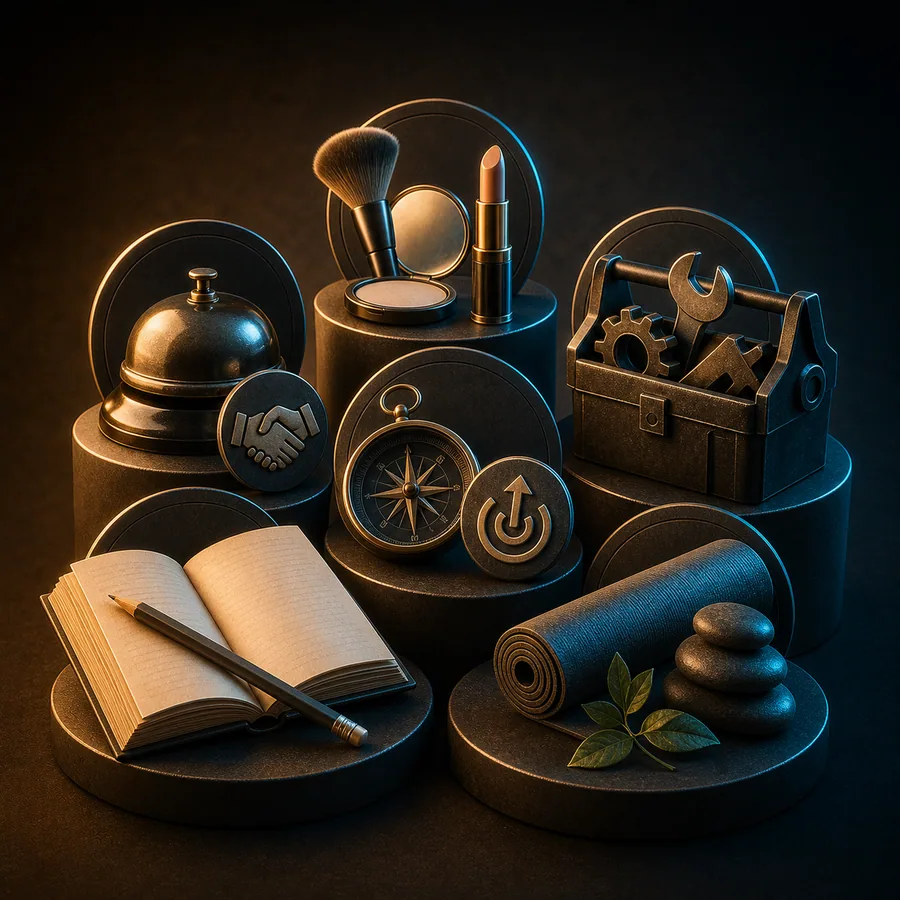
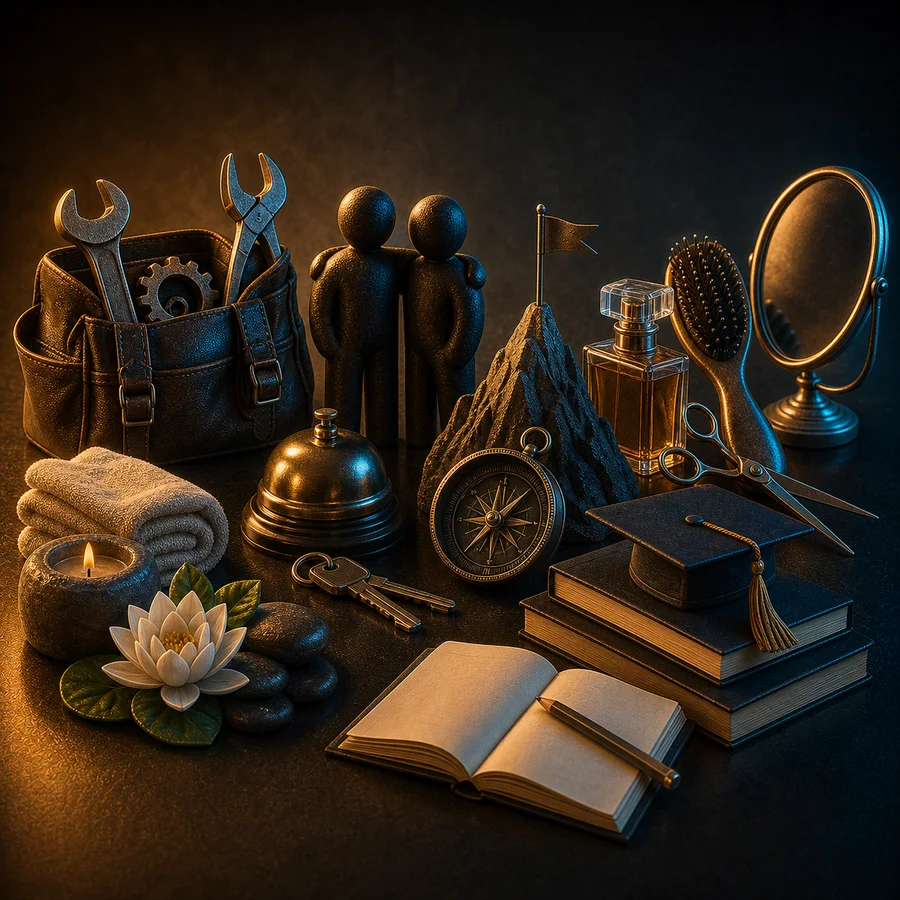
Replace services artwork and remove chevrons

diff --git a/src/LaunchPage.tsx b/src/LaunchPage.tsx
@@ -1,5 +1,5 @@
 const activityCardImage = "/launch/activity-card-user.webp";
-const servicesCardImage = "/launch/services-card-user.webp";
+const servicesCardImage = "/launch/services-card-user.webp?v=20260801-2";
 import { AppHeader } from "./components/AppHeader";
 import { getTranslation } from "./i18n";
 import type { Language } from "./types";
@@ -115,13 +115,11 @@ export function LaunchPage({
             <img src={activityCardImage} alt="" aria-hidden="true" />
             <span className="launch-card-shade" aria-hidden="true" />
             <span className="launch-domain-copy"><strong>{t.activities}</strong><small>{t.activitiesInfo}</small></span>
-            <span className="launch-card-arrow" aria-hidden="true">›</span>
           </button>
           <button className="launch-domain-card launch-services-card" type="button" onClick={onOpenServices}>
             <img src={servicesCardImage} alt="" aria-hidden="true" />
             <span className="launch-card-shade" aria-hidden="true" />
             <span className="launch-domain-copy"><strong>{t.services}</strong><small>{t.servicesInfo}</small></span>
-            <span className="launch-card-arrow" aria-hidden="true">›</span>
           </button>
         </div>
       </section>

diff --git a/src/App.tsx b/src/App.tsx
@@ -606,7 +606,6 @@ function HomeView({ language, onOpen, onJoin, onOpenOrganizerCabinet }: { langua
             <span>{category.icon}</span>
             <strong>{category.name[language]}</strong>
             <small>{servicesDomain ? professionalCount + " " + professionalCountLabel(language, professionalCount) : activities.filter((activity) => activity.categoryId === category.id).length + " " + t.eventCountLabel}</small>
-            <ChevronRight size={16} />
           </button>
         ))}
       </div>

diff --git a/src/launch-page.css b/src/launch-page.css
@@ -19,4 +19,5 @@
 .launch-services-card{border:3px solid #d4af37;box-shadow:0 0 18px #d4af3740,0 18px 44px #00000052,inset 0 0 0 1px #ffffff08}
 @media(max-width:420px){.launch-domain-copy strong{font-size:clamp(16px,4.6vw,18px)}.launch-domain-copy small{font-size:10px}}
 .launch-card-arrow{width:28px;height:36px;border:0;border-radius:0;background:transparent;backdrop-filter:none;font-size:30px}
+.launch-domain-card{grid-template-columns:minmax(0,1fr)}
 

diff --git a/src/category-cards.css b/src/category-cards.css
@@ -134,3 +134,7 @@
   background: transparent;
   backdrop-filter: none;
 }
+
+.category-grid.module-grid .category-button {
+  grid-template-columns: minmax(0, 1fr);
+}

diff --git a/docs/reports/2026-08-01-agent-report-services-background-no-chevrons.md b/docs/reports/2026-08-01-agent-report-services-background-no-chevrons.md
@@ -1,0 +1,53 @@
+---
+title: Agent Report
+owner: AI Fixer
+status: Draft
+source_of_truth: false
+last_review: 2026-08-01
+next_review: 2026-08-08
+---
+
+# Agent Report
+
+## Task
+
+Replace the Services launch-card background with the user’s second supplied image and remove chevrons from cards on the launch, Activities, and Services views.
+
+## Files inspected
+
+- `src/LaunchPage.tsx`
+- `src/App.tsx`
+- `src/launch-page.css`
+- `src/category-cards.css`
+- `images/launch/services-card-user.webp`
+
+## Changes made
+
+- Converted the supplied square PNG to a 900 × 900 WebP Services background.
+- Added a cache-busting version to the Services background URL.
+- Preserved the existing Activities background unchanged.
+- Removed the visible chevron elements from both launch cards and all Activities/Services category cards.
+- Removed the unused arrow column from both card grids so text can use the full width.
+
+## Checks
+
+- `pnpm run lint` — PASS (one pre-existing `no-console` warning in `api/_shared/admin-authorization.ts`).
+- `pnpm run build` — PASS.
+- `pnpm run test` — PASS (132 files, 631 tests, plus Staff OS checks).
+- `pnpm run typecheck` — PASS.
+- Production browser verification — pending deployment.
+
+## Risks
+
+Low. The card buttons remain fully clickable and retain their existing labels and focus behavior.
+
+## Not touched
+
+- Activities background
+- Card actions, routes, and data
+- Header, logo, and controls
+- Auth, Supabase, RLS, SQL, migrations, secrets, and environment files
+
+## Next step
+
+Run the release checks, merge, deploy the exact SHA, and verify all three mobile views.
